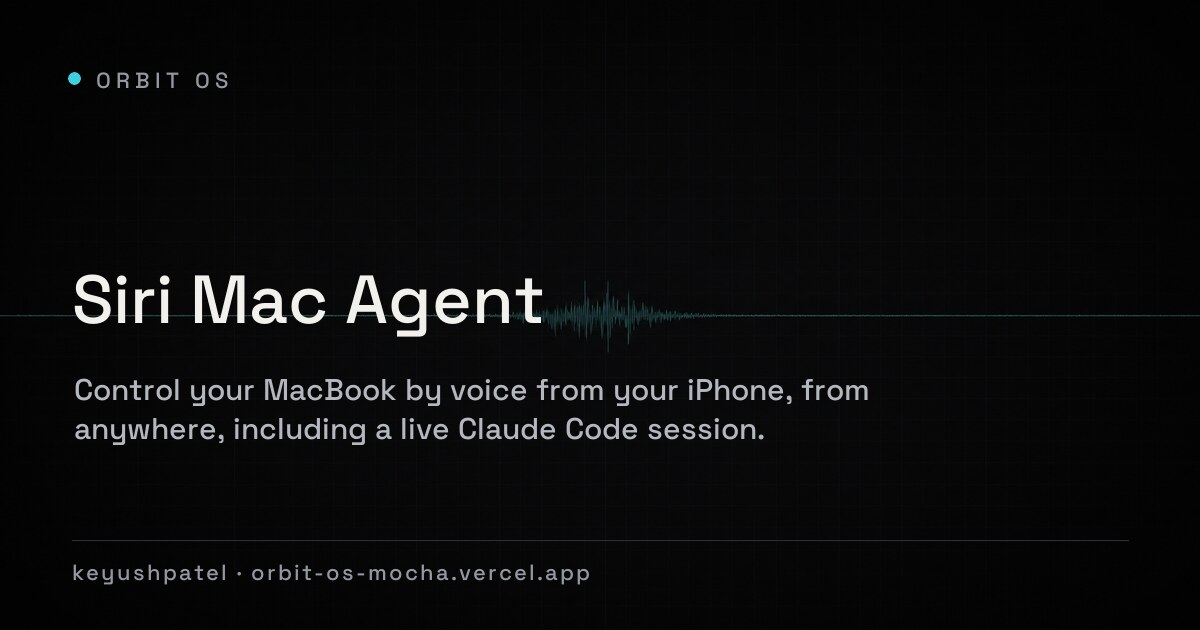
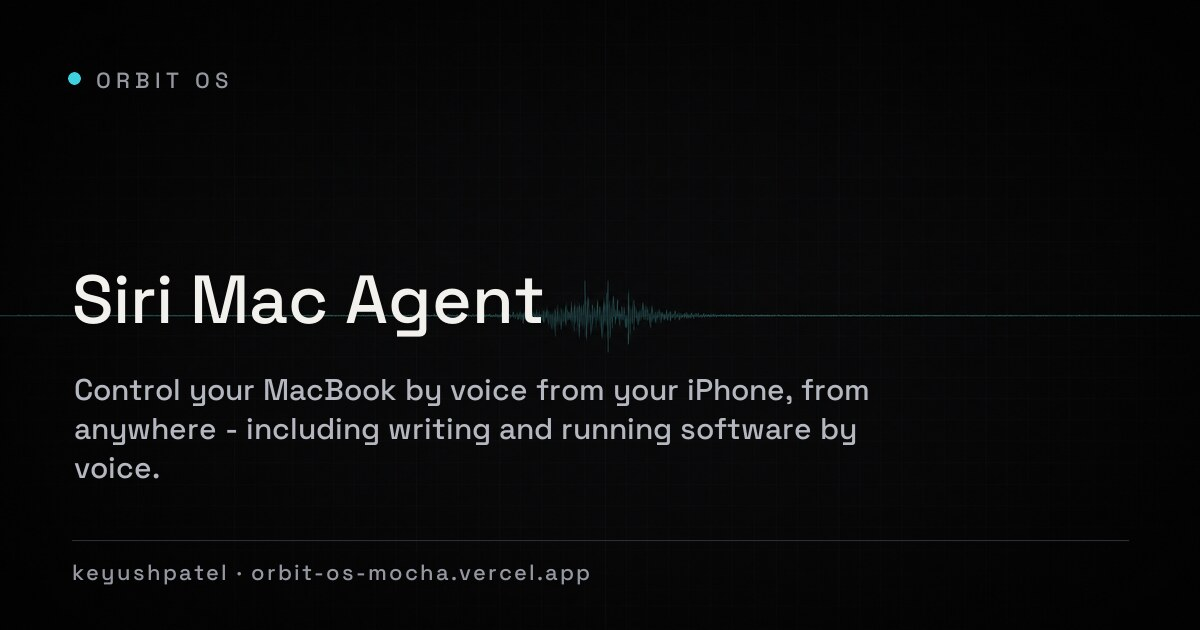
Catch the Siri Mac Agent write-up up to the project, and add scene photography
Seventeen commits landed upstream since this page was written, and two
of them change what the project is.

Transcription moved onto the Mac. Apple's dictation runs on the phone,
has never heard of anything on this machine, and hands over a finished
guess with no confidence attached — the audit log had filled with
"cloth terminal" for "Claude terminal". The Shortcut now sends audio and
whisper.cpp transcribes it locally on the GPU, primed with the
vocabulary before it decides. That is a cause fixed rather than a
symptom repaired, so it leads the challenges.

And there is a Builder now: Claude Code's real toolset pointed at a
project directory, with no trigger phrase, because the Operator
recognises a coding request on its own. The router has four
destinations rather than three, and the demo panel gained both the
Builder and the misheard-phrase repair.

The photographs are illustrations and are built so they cannot be taken
for anything else: every screen in shot is dark, and the section says
so. They carry the one thing the schematics cannot — that this is a
button held in a dark room, and a machine left working with nobody in
front of it.

Verified against the upstream repo's own two test suites, both passing.

Claude-Session: https://claude.ai/code/session_01LRT25TJYzFnN5madWpY6vq

Changed region(s): [[0.185, 0.6635, 0.7092, 0.7238], [0.0617, 0.7238, 0.1233, 0.7841]]

diff --git a/data/projects.ts b/data/projects.ts
@@ -38,19 +38,20 @@ export const projects: Project[] = [
     category: "ai",
     tier: "featured",
     oneLiner:
-      "Control your MacBook by voice from your iPhone, from anywhere, including a live Claude Code session.",
+      "Control your MacBook by voice from your iPhone, from anywhere \u2014 including writing and running software by voice.",
     status: "in-development",
-    role: "Sole builder. Architecture, routing, safety model, and the macOS tool layer.",
+    role: "Sole builder. Architecture, routing, transcription, safety model, and the macOS tool layer.",
     problem:
       "Siri cannot be made smarter. Apple only lets a third party do three things: launch a Shortcut by name, hand over dictated text, and speak a reply. That is the entire surface area, so every attempt to make Siri genuinely useful runs out of room immediately.",
     contribution:
-      "Treated Siri as a voice pipe rather than a brain, and put all of the intelligence on the Mac. Built the daemon, the router that decides where each utterance goes, the tiered macOS tool layer, and the safety model that makes remote voice control of a whole machine defensible.",
+      "Treated Siri as a voice pipe rather than a brain, and put all of the intelligence on the Mac. Built the daemon, the router that decides where each utterance goes, the tiered macOS tool layer, the on-device transcription, and the safety model that makes remote voice control of a whole machine defensible.",
     solution:
-      "An iPhone Shortcut sends the dictated phrase over Tailscale to a daemon on the Mac. A router sends it one of three ways: a pattern-matched fast path that answers questions like battery level from a single CLI call with no model at all, an Operator agent that drives macOS through tools, or a live Claude Code session running inside tmux. The Mac does the work and speaks the answer back.",
+      "An iPhone Shortcut sends the recording over Tailscale to a daemon on the Mac. A router sends it one of four ways: a pattern-matched fast path that answers questions like battery level from a single CLI call with no model at all, an Operator agent that drives macOS through tools, a live Claude Code session running inside tmux, or the Builder, which writes and runs real software in a project directory. The Mac does the work and speaks the answer back.",
     techStack: [
       "Python",
       "FastAPI",
       "Claude Agent SDK",
+      "whisper.cpp",
       "tmux",
       "AppleScript",
       "Tailscale",
@@ -58,14 +59,16 @@ export const projects: Project[] = [
       "iOS Shortcuts",
     ],
     challenges: [
+      "Apple's dictation runs on the phone, has never heard of anything on this Mac, and hands over a finished guess with no confidence attached \u2014 the audit log filled up with \u201ccloth terminal\u201d for \u201cClaude terminal\u201d. Moving transcription onto the Mac removed the cause rather than repairing the symptom: the Shortcut sends audio, whisper.cpp transcribes it locally on the GPU, and it can be told the vocabulary before it decides. Audio never leaves the machine and there is no API cost.",
       "Driving the Mac through the command line instead of clicking the interface. The agent works down four tiers and stops at the first that can do the job, so most requests resolve to something instant and deterministic that cannot misclick.",
-      "Typing into Claude Code through tmux rather than simulating keystrokes, so a prompt lands in the real process stdin instead of whichever window happened to have focus.",
       "Making remote voice control of an entire machine safe: commands are classified safe, sensitive, or blocked, and the blocked set has no override path precisely because any override would itself be reachable by voice.",
+      "A phone is a terrible progress display, and iOS abandons a Shortcut at about sixty seconds. Anything substantial runs detached and announces itself with a notification when the work lands.",
     ],
     outcome: [
-      "Working end to end: voice from an iPhone on cellular opens apps, toggles system settings, finds files by name anywhere on disk, and hands coding tasks to a live Claude Code session.",
+      "Working end to end: voice from an iPhone on cellular opens apps, toggles system settings, finds files by name anywhere on disk, reads the screen, and hands coding tasks to a live Claude Code session.",
+      "The Builder writes software by voice \u2014 Claude Code's real toolset pointed at a project directory, with no trigger phrase, because the Operator recognises a coding request on its own.",
       "The fast path answers common system questions in under a second without calling a model at all.",
-      "Its own offline smoke test covers routing, safety classification, session memory, and speech shaping, and passes clean.",
+      "Two offline test suites cover routing, safety classification, transcript repair, session memory, and speech shaping. Both pass clean.",
     ],
     screenshots: [
       "/projects/siri-mac-agent/action-button.webp",

diff --git a/components/projects/SiriScenes.tsx b/components/projects/SiriScenes.tsx
@@ -1,0 +1,82 @@
+/*
+  Atmosphere, and one idea the diagrams cannot carry.
+
+  These are illustrations rather than documentation — nothing in them is a
+  screen capture, and every screen in shot is dark on purpose, so none of them
+  can be mistaken for evidence of what the software looks like. They are here
+  for the thing the schematics leave out: what using this is actually like,
+  which is holding a button in a dark room and then walking away from the
+  machine while it works.
+*/
+
+const HERO = {
+  src: "/projects/siri-mac-agent/scene-press.webp",
+  alt: "A hand holding a phone in a dim room, thumb resting on the side button.",
+  caption:
+    "Hold the Action Button, say the thing, let go. That is the entire interface — there is no app, and iOS gives a third party no way to keep a microphone open.",
+};
+
+const SCENES = [
+  {
+    src: "/projects/siri-mac-agent/scene-away.webp",
+    alt: "A dim home office seen from across the room, an empty chair pushed back from a desk.",
+    label: "Nobody at the keyboard",
+    caption:
+      "The Builder writes and runs software with no one watching, which is why it is confined to one directory and why anything substantial runs detached and reports back by notification.",
+  },
+  {
+    src: "/projects/siri-mac-agent/scene-night.webp",
+    alt: "An open laptop beside a window at night, its screen dark and facing away.",
+    label: "Awake, or not",
+    caption:
+      "The first two tiers work with the screen locked. Only the keyboard and vision tiers need the Mac awake, which is the real reason the CLI path is preferred over driving the interface.",
+  },
+];
+
+export function SiriScenes() {
+  return (
+    <section>
+      <div className="flex items-baseline justify-between gap-4">
+        <h2 className="font-mono text-label uppercase text-ink-faint">In use</h2>
+        <span className="font-mono text-label uppercase text-ink-faint">Illustration</span>
+      </div>
+
+      <figure className="mt-4 border border-line bg-graphite/50">
+        <img
+          src={HERO.src}
+          alt={HERO.alt}
+          width={1600}
+          height={900}
+          loading="lazy"
+          decoding="async"
+          className="block h-auto w-full"
+        />
+        <figcaption className="border-t border-line px-3 py-3 text-xs leading-relaxed text-ink-dim sm:px-4 sm:text-sm">
+          {HERO.caption}
+        </figcaption>
+      </figure>
+
+      <div className="mt-3 grid gap-3 sm:mt-4 sm:grid-cols-2 sm:gap-4">
+        {SCENES.map((s) => (
+          <figure key={s.src} className="flex flex-col border border-line bg-graphite/50">
+            <div className="border-b border-line px-3 py-2 font-mono text-label uppercase text-ink-faint">
+              {s.label}
+            </div>
+            <img
+              src={s.src}
+              alt={s.alt}
+              width={1600}
+              height={900}
+              loading="lazy"
+              decoding="async"
+              className="block h-auto w-full"
+            />
+            <figcaption className="mt-auto border-t border-line px-3 py-3 text-xs leading-relaxed text-ink-dim sm:text-sm">
+              {s.caption}
+            </figcaption>
+          </figure>
+        ))}
+      </div>
+    </section>
+  );
+}

diff --git a/components/projects/SiriDemo.tsx b/components/projects/SiriDemo.tsx
@@ -13,7 +13,7 @@ import { usePrefersReducedMotion } from "@/lib/use-reduced-motion";
   implies a socket it does not have is worse than no demo.
 */
 
-type Route = "FAST" | "OPERATOR" | "CLAUDE" | "BLOCKED";
+type Route = "FAST" | "OPERATOR" | "CLAUDE" | "BUILDER" | "BLOCKED";
 
 type Step = { label: string; value: string };
 
@@ -29,6 +29,7 @@ const ROUTE_COLOR: Record<Route, string> = {
   FAST: "var(--color-accent-oss)",
   OPERATOR: "var(--color-accent-ai)",
   CLAUDE: "var(--color-accent-web)",
+  BUILDER: "var(--color-accent-client)",
   BLOCKED: "var(--color-accent-exp)",
 };
 
@@ -66,6 +67,17 @@ const EXCHANGES: Exchange[] = [
     reply: "Found Budget 2026.numbers in your Documents folder.",
   },
   {
+    said: "Minimise the cloth terminal window",
+    route: "OPERATOR",
+    why: "Dictation misheard \u201cClaude\u201d. Transcription moved onto the Mac to remove the cause.",
+    steps: [
+      { label: "heard", value: "whisper.cpp, locally, on the GPU" },
+      { label: "primed", value: "told the vocabulary before it decides" },
+      { label: "tool", value: "click_menu(Terminal, Window, Minimize)" },
+    ],
+    reply: "Minimised the Claude terminal window.",
+  },
+  {
     said: "Tell Claude to fix the login bug",
     route: "CLAUDE",
     why: "Typed into the real stdin of a live session, not simulated keystrokes.",
@@ -75,6 +87,18 @@ const EXCHANGES: Exchange[] = [
       { label: "shape", value: "strip ANSI, collapse paths, cap length" },
     ],
     reply: "Fixed it — the session token wasn't being refreshed.",
+  },
+  {
+    said: "Make me a tiny site called voice demo with a dark landing page",
+    route: "BUILDER",
+    why: "No trigger phrase. The Operator recognises a coding request itself.",
+    steps: [
+      { label: "tool", value: "build_project(voice-demo)" },
+      { label: "toolset", value: "Read, Write, Edit, Bash, Grep, WebSearch" },
+      { label: "scope", value: "confined to the projects directory" },
+      { label: "mode", value: "detached — iOS abandons a Shortcut at ~60s" },
+    ],
+    reply: "Starting that now. I'll notify you when it's built.",
   },
   {
     said: "Delete the old notes file",

diff --git a/app/projects/[slug]/page.tsx b/app/projects/[slug]/page.tsx
@@ -5,6 +5,7 @@ import { ProjectPreview } from "@/components/projects/ProjectPreview";
 import { SiriDemo } from "@/components/projects/SiriDemo";
 import { SiriShots } from "@/components/projects/SiriShots";
 import { SiriDiagrams } from "@/components/projects/SiriDiagrams";
+import { SiriScenes } from "@/components/projects/SiriScenes";
 
 /*
   Per-project share cards. Each project has its own generated image, so a link
@@ -81,6 +82,7 @@ export default function ProjectPage({ params }: { params: { slug: string } }) {
           <SiriDemo />
           <SiriShots />
           <SiriDiagrams />
+          <SiriScenes />
         </>
       ) : (
         <ProjectPreview project={project} />
